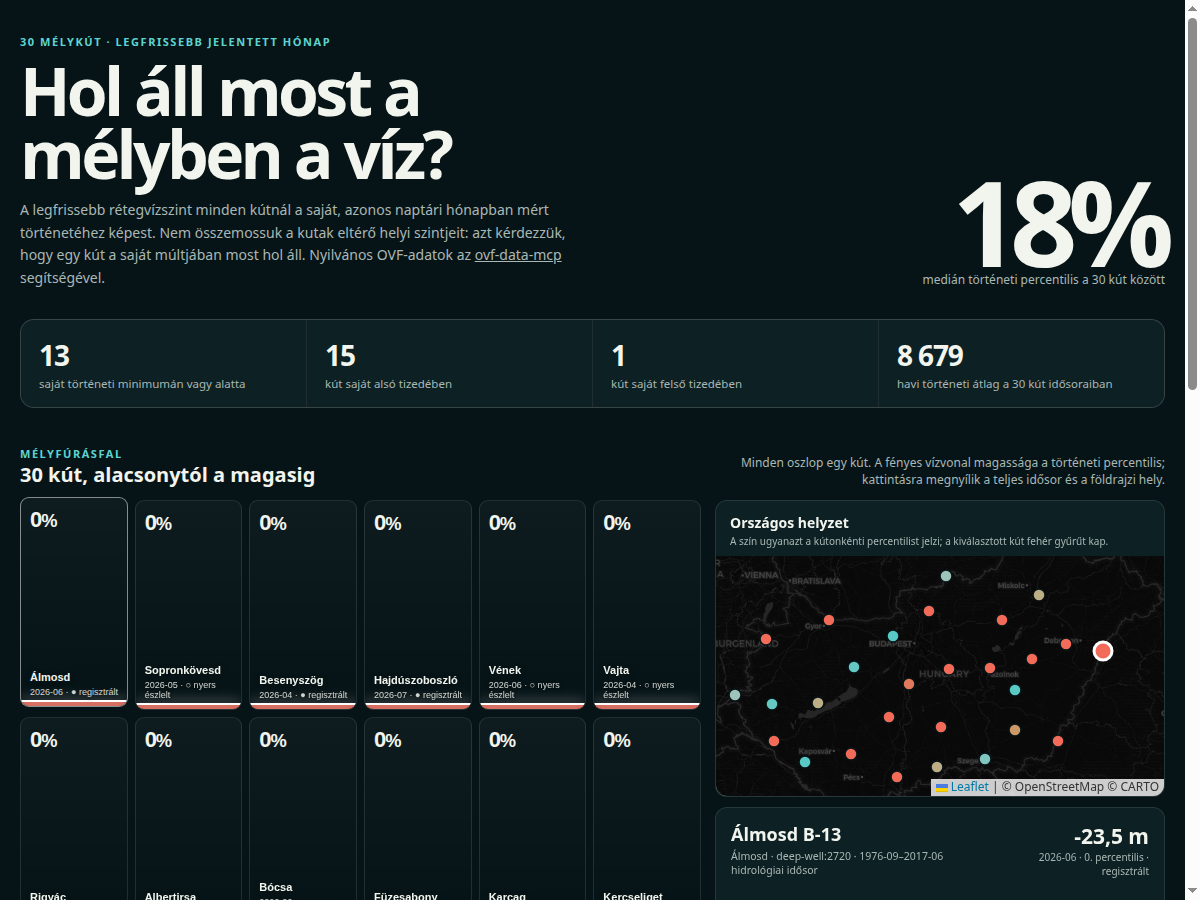
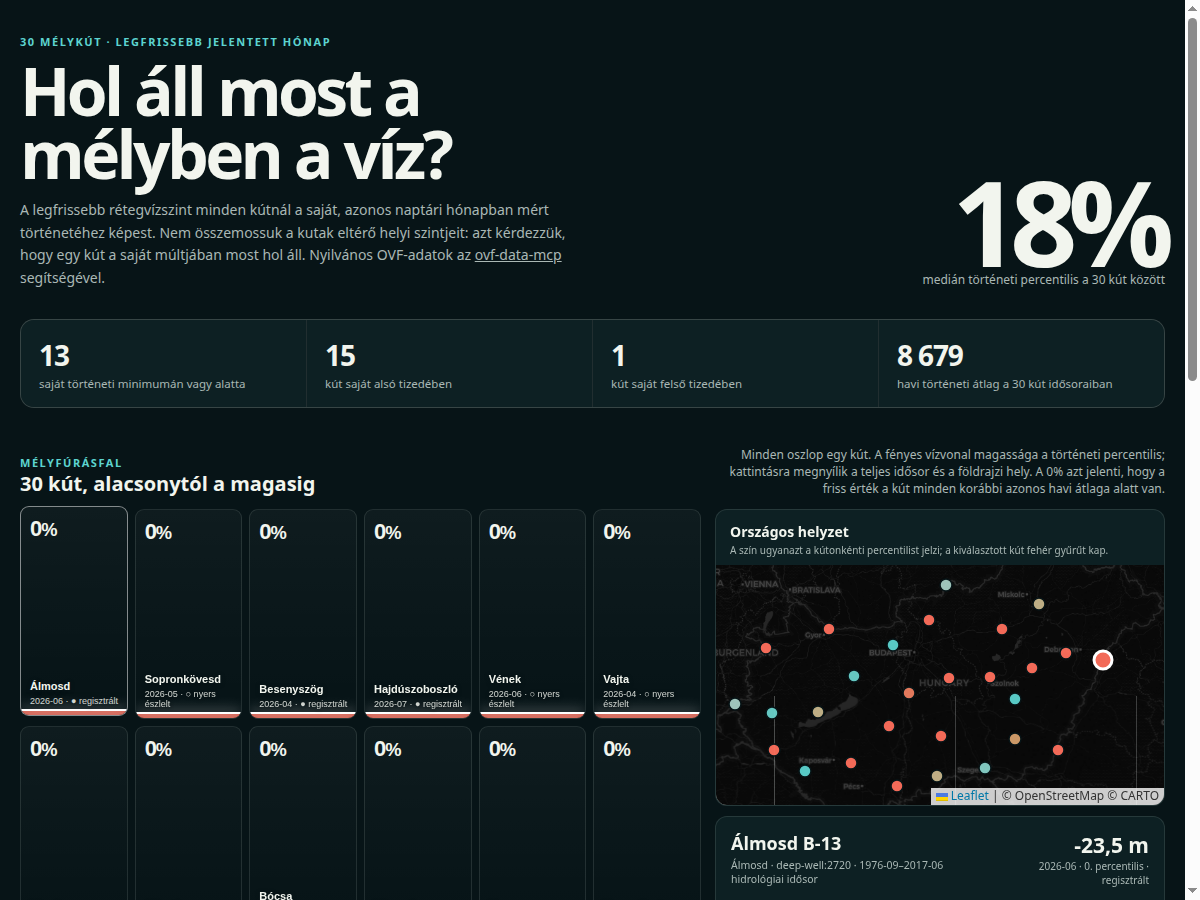
docs: clarify deep-well example story and fix mobile layout
Explain the 2017 baseline cutoff, define 0% at the well wall, label the
fresh-month type symbols in the legend, add meter units to the chart axis,
scroll the wall to the selected well on map clicks, and restore a small-screen
breakpoint. Regenerate the card screenshot.

diff --git a/docs/examples/hungary-deep-groundwater-pulse.html b/docs/examples/hungary-deep-groundwater-pulse.html
@@ -19,11 +19,11 @@
 <body><main class="wrap">
 <header><div><div class="eyebrow">30 mélykút · legfrissebb jelentett hónap</div><h1>Hol áll most a mélyben a víz?</h1><p>A legfrissebb rétegvízszint minden kútnál a saját, azonos naptári hónapban mért történetéhez képest. Nem összemossuk a kutak eltérő helyi szintjeit: azt kérdezzük, hogy egy kút a saját múltjában most hol áll. Nyilvános OVF-adatok az <a href="https://github.com/kalcifield/ovf-data-mcp">ovf-data-mcp</a> segítségével.</p></div><div class="hero-number"><b id="median-pct">—</b><span>medián történeti percentilis a 30 kút között</span></div></header>
 <section class="summary"><div class="metric"><b id="record-low">—</b><span>saját történeti minimumán vagy alatta</span></div><div class="metric"><b id="bottom">—</b><span>kút saját alsó tizedében</span></div><div class="metric"><b id="top">—</b><span>kút saját felső tizedében</span></div><div class="metric"><b>8 679</b><span>havi történeti átlag a 30 kút idősoraiban</span></div></section>
-<div class="section-head"><div><div class="eyebrow">Mélyfúrásfal</div><h2>30 kút, alacsonytól a magasig</h2></div><p>Minden oszlop egy kút. A fényes vízvonal magassága a történeti percentilis; kattintásra megnyílik a teljes idősor és a földrajzi hely.</p></div>
+<div class="section-head"><div><div class="eyebrow">Mélyfúrásfal</div><h2>30 kút, alacsonytól a magasig</h2></div><p>Minden oszlop egy kút. A fényes vízvonal magassága a történeti percentilis; kattintásra megnyílik a teljes idősor és a földrajzi hely. A 0% azt jelenti, hogy a friss érték a kút minden korábbi azonos havi átlaga alatt van.</p></div>
 <section class="workspace"><div><section class="wall" id="wall" aria-label="Kutak történeti percentilis szerint rendezve"></section><div class="scale"><span>↓ saját történetében alacsony</span><span>saját történetében magas ↑</span></div></div>
 <section class="explore"><aside class="map-card"><div class="map-title"><h3>Országos helyzet</h3><p>A szín ugyanazt a kútonkénti percentilist jelzi; a kiválasztott kút fehér gyűrűt kap.</p></div><div id="map"></div></aside><article class="chart-card"><div class="chart-top"><div><h3 id="station-name">—</h3><p id="station-meta">—</p></div><div class="now"><b id="station-value">—</b><small id="station-rank">—</small></div></div><svg id="history" role="img" aria-label="A kiválasztott kút történeti havi rétegvízszintje"></svg></article></section></section>
-<div class="legend"><span><i class="sw" style="background:#ff705d"></i> alsó 10%</span><span><i class="sw" style="background:#d6a06d"></i> alacsonyabb</span><span><i class="sw" style="background:#c7cdc2"></i> középső</span><span><i class="sw" style="background:#5dd4d0"></i> felső 10%</span><span>● regisztrált · ○ nyers észlelt</span></div>
-<section class="method"><div><h3>Összehasonlítható „most”</h3><p>A legfrissebb regisztrált havi átlagot használjuk; ahol ilyen nincs, a nyers észlelt havi átlagot. Ezt csak az adott kút ugyanazon naptári hónapjának 1970–2017 közötti hidrológiai havi átlagaival rangsoroljuk, így a normális évszakosság kevésbé torzít. A kutak legfrissebb dátuma 2025. december és 2026. július között változik, minden oszlopon látható.</p></div><div><h3>Nem hivatalos állapotindex</h3><p>A percentilis relatív helyzet, nem vízkészlet, vízmélység vagy okozati állítás. A regisztrált és nyers adatok ellenőrzöttsége eltérhet; ezért a típus minden kútnál látható, és az idősorba nem fűzzük bele a friss pontot. A 30 kút determinisztikus, térben szétterített minta az 521 aktív állomásból; kútonként legalább 12 azonos havi történeti értékkel.</p></div></section>
+<div class="legend"><span><i class="sw" style="background:#ff705d"></i> alsó 10%</span><span><i class="sw" style="background:#d6a06d"></i> alacsonyabb</span><span><i class="sw" style="background:#c7cdc2"></i> középső</span><span><i class="sw" style="background:#5dd4d0"></i> felső 10%</span><span>a friss hónap típusa: ● regisztrált · ○ nyers észlelt (előzetes lehet)</span></div>
+<section class="method"><div><h3>Összehasonlítható „most”</h3><p>A legfrissebb regisztrált havi átlagot használjuk; ahol ilyen nincs, a nyers észlelt havi átlagot. Ezt csak az adott kút ugyanazon naptári hónapjának 1970–2017 közötti hidrológiai havi átlagaival rangsoroljuk, így a normális évszakosság kevésbé torzít. Az ellenőrzött hidrológiai idősorok a forrásban 2017-tel zárulnak, ezért a viszonyítási alapból a 2018–2024 közötti évek hiányoznak. A kutak legfrissebb dátuma 2025. december és 2026. július között változik, minden oszlopon látható.</p></div><div><h3>Nem hivatalos állapotindex</h3><p>A percentilis relatív helyzet, nem vízkészlet, vízmélység vagy okozati állítás. A regisztrált és nyers adatok ellenőrzöttsége eltérhet; ezért a típus minden kútnál látható, és az idősorba nem fűzzük bele a friss pontot. A 30 kút determinisztikus, térben szétterített minta az 521 aktív állomásból; kútonként legalább 12 azonos havi történeti értékkel.</p></div></section>
 <footer><strong>Reprodukálható lekérdezések</strong><pre>vizugy stations search "" --network deep-wells --limit 1000
 vizugy observations aggregate deep-well:1197 --metric water-level --data-type hydrological \
   --start 1970-01-01T00:00:00Z --end 2018-01-01T00:00:00Z --interval monthly --operation avg
@@ -47,7 +47,7 @@ document.querySelector("#top").textContent=WELLS.filter(w=>w.percentile>.9).leng
 const wall=document.querySelector("#wall");
 for(const w of sorted){const b=document.createElement("button");b.className="well";b.style.setProperty("--color",color(w.percentile));b.style.setProperty("--height",Math.max(2,w.percentile*100)+"%");b.dataset.id=w.id;b.setAttribute("aria-label",`${w.name}: ${Math.round(w.percentile*100)}. percentilis`);b.innerHTML=`<span class="fill" style="height:${Math.max(2,w.percentile*100)}%"></span><span class="line"></span><span class="pct">${Math.round(w.percentile*100)}<small>%</small></span><span class="place">${w.municipality}<small>${w.date} · ${w.typeCode===2?"●":"○"} ${w.type}</small></span>`;b.onclick=()=>select(w.id);wall.appendChild(b)}
 const map=L.map("map",{zoomControl:false,attributionControl:true,scrollWheelZoom:false,zoomSnap:.5}).setView([47.15,19.45],6.5);L.tileLayer("https://{s}.basemaps.cartocdn.com/dark_all/{z}/{x}/{y}{r}.png",{maxZoom:18,attribution:'&copy; OpenStreetMap &copy; CARTO'}).addTo(map);const markers=new Map();for(const w of WELLS){const m=L.circleMarker([w.lat,w.lon],{radius:6,color:"#071417",weight:1.5,fillColor:color(w.percentile),fillOpacity:.95}).addTo(map).bindTooltip(`${w.name} · ${Math.round(w.percentile*100)}%`);m.on("click",()=>{select(w.id);document.querySelector(".well.active")?.scrollIntoView({block:"nearest",behavior:"smooth"})});markers.set(w.id,m)}
-function drawHistory(w){const svg=document.querySelector("#history"),W=720,H=310,M={l:54,r:18,t:22,b:35},vals=[...w.rows.map(r=>r[1]),w.value],dates=w.rows.map(r=>r[0]),min=Math.min(...vals),max=Math.max(...vals),x=i=>M.l+i/(w.rows.length-1)*(W-M.l-M.r),y=v=>M.t+(max-v)/(max-min||1)*(H-M.t-M.b);svg.setAttribute("viewBox",`0 0 ${W} ${H}`);let grid="";for(let i=0;i<4;i++){const v=min+(max-min)*i/3,yy=y(v);grid+=`<line x1="${M.l}" x2="${W-M.r}" y1="${yy}" y2="${yy}" stroke="rgba(220,240,234,.1)"/><text x="${M.l-8}" y="${yy+4}" text-anchor="end" fill="#718581" font-size="10">${fmt(v)}</text>`}const d=w.rows.map((r,i)=>`${i?"L":"M"}${x(i).toFixed(1)},${y(r[1]).toFixed(1)}`).join("");const month=w.date.slice(5),same=w.rows.map((r,i)=>[r,i]).filter(([r])=>r[0].slice(5)===month);const dots=same.map(([r,i])=>`<circle cx="${x(i)}" cy="${y(r[1])}" r="2" fill="${color(w.percentile)}" opacity=".65"/>`).join("");svg.innerHTML=`${grid}<path d="${d}" fill="none" stroke="#718581" stroke-width="1" opacity=".65"/>${dots}<line x1="${M.l}" x2="${W-M.r}" y1="${y(w.value)}" y2="${y(w.value)}" stroke="${color(w.percentile)}" stroke-width="2" stroke-dasharray="5 4"/><text x="${M.l}" y="${H-10}" fill="#718581" font-size="10">${dates[0]}</text><text x="${W-M.r}" y="${H-10}" text-anchor="end" fill="#718581" font-size="10">${dates.at(-1)}</text><text x="${W-M.r}" y="${Math.max(M.t+11,y(w.value)-7)}" text-anchor="end" fill="${color(w.percentile)}" font-size="11">friss: ${fmt(w.value)} m</text>`}
+function drawHistory(w){const svg=document.querySelector("#history"),W=720,H=310,M={l:54,r:18,t:22,b:35},vals=[...w.rows.map(r=>r[1]),w.value],dates=w.rows.map(r=>r[0]),min=Math.min(...vals),max=Math.max(...vals),x=i=>M.l+i/(w.rows.length-1)*(W-M.l-M.r),y=v=>M.t+(max-v)/(max-min||1)*(H-M.t-M.b);svg.setAttribute("viewBox",`0 0 ${W} ${H}`);let grid="";for(let i=0;i<4;i++){const v=min+(max-min)*i/3,yy=y(v);grid+=`<line x1="${M.l}" x2="${W-M.r}" y1="${yy}" y2="${yy}" stroke="rgba(220,240,234,.1)"/><text x="${M.l-8}" y="${yy+4}" text-anchor="end" fill="#718581" font-size="10">${fmt(v)} m</text>`}const d=w.rows.map((r,i)=>`${i?"L":"M"}${x(i).toFixed(1)},${y(r[1]).toFixed(1)}`).join("");const month=w.date.slice(5),same=w.rows.map((r,i)=>[r,i]).filter(([r])=>r[0].slice(5)===month);const dots=same.map(([r,i])=>`<circle cx="${x(i)}" cy="${y(r[1])}" r="2" fill="${color(w.percentile)}" opacity=".65"/>`).join("");svg.innerHTML=`${grid}<path d="${d}" fill="none" stroke="#718581" stroke-width="1" opacity=".65"/>${dots}<line x1="${M.l}" x2="${W-M.r}" y1="${y(w.value)}" y2="${y(w.value)}" stroke="${color(w.percentile)}" stroke-width="2" stroke-dasharray="5 4"/><text x="${M.l}" y="${H-10}" fill="#718581" font-size="10">${dates[0]}</text><text x="${W-M.r}" y="${H-10}" text-anchor="end" fill="#718581" font-size="10">${dates.at(-1)}</text><text x="${W-M.r}" y="${Math.max(M.t+11,y(w.value)-7)}" text-anchor="end" fill="${color(w.percentile)}" font-size="11">friss: ${fmt(w.value)} m</text>`}
 function select(id){const w=WELLS.find(x=>x.id===id);document.querySelectorAll(".well").forEach(e=>e.classList.toggle("active",e.dataset.id===id));document.querySelector("#station-name").textContent=w.name;document.querySelector("#station-meta").textContent=`${w.municipality} · ${w.id} · ${w.rows[0][0]}–${w.rows.at(-1)[0]} hidrológiai idősor`;document.querySelector("#station-value").textContent=fmt(w.value)+" m";document.querySelector("#station-rank").textContent=`${w.date} · ${Math.round(w.percentile*100)}. percentilis · ${w.type}`;for(const [key,m] of markers)m.setStyle({radius:key===id?9:6,color:key===id?"#fff":"#071417",weight:key===id?3:1.5});drawHistory(w)}
 select(sorted[0].id);
 </script></body></html>